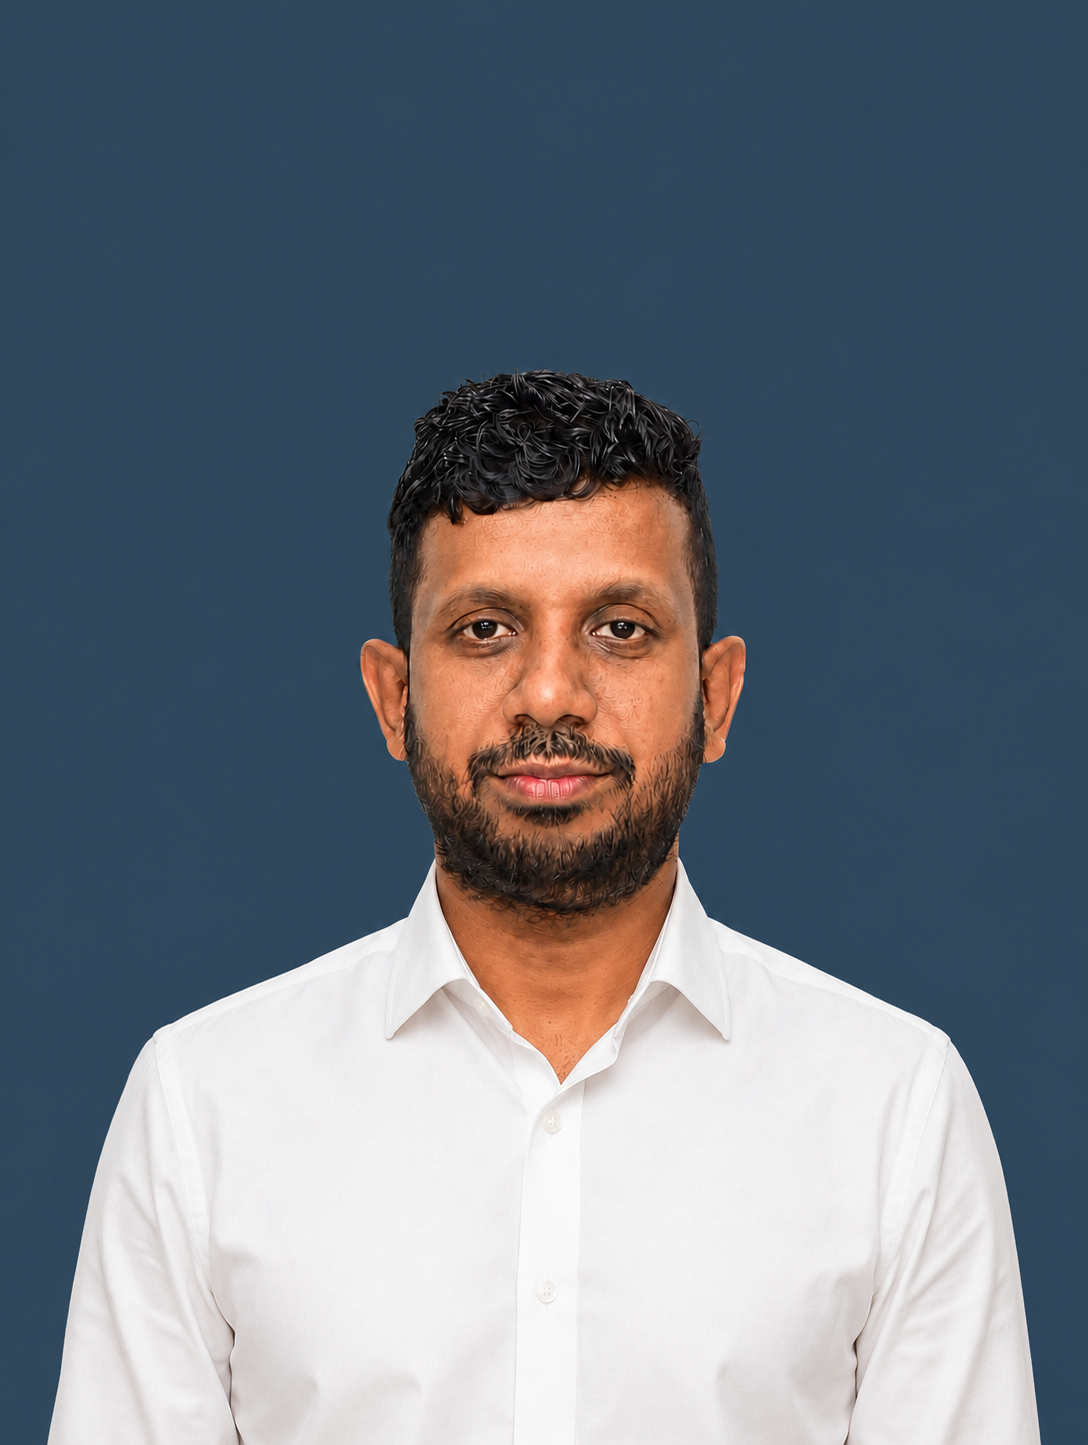
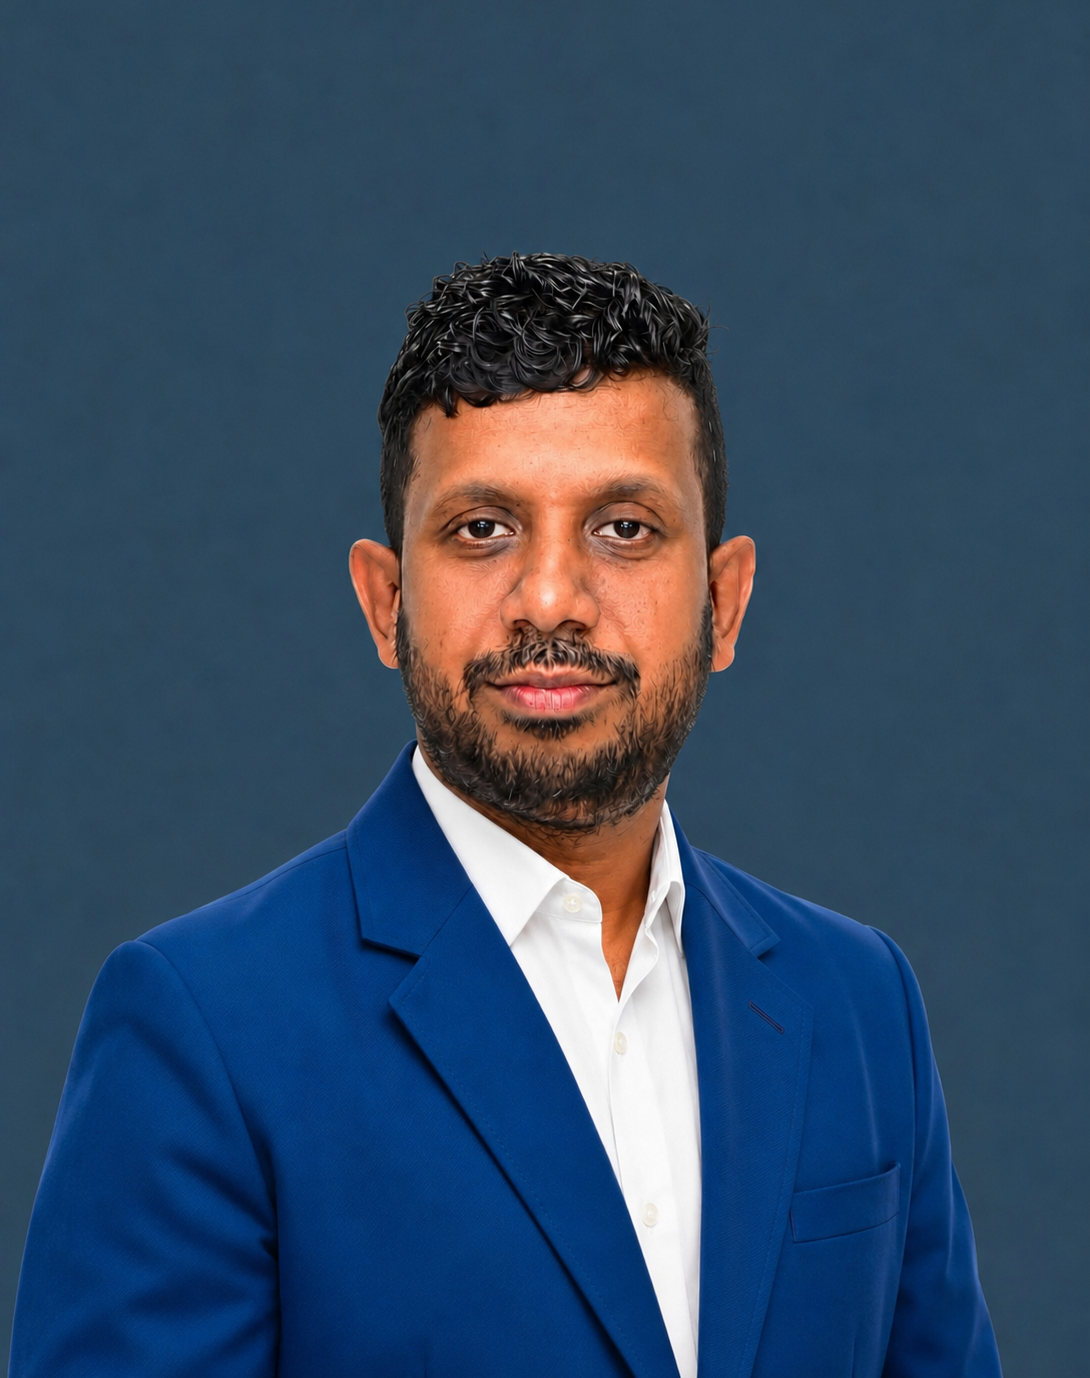
Enhance InsightsSection styles, update ProcessSection role

diff --git a/src/Dashboard/InsightsSection.jsx b/src/Dashboard/InsightsSection.jsx
@@ -110,9 +110,10 @@ const InsightsSection = () => {
 
             <style>{`
                 .fr-insights-section {
-
                     margin: 22px 0;
                     min-height: 280px;
+                    background: linear-gradient(135deg, #f8fafb 0%, #f3f6f9 100%);
+                    border-radius: 24px;
                 }
 
                 .fr-insights-shell {
@@ -123,15 +124,17 @@ const InsightsSection = () => {
 
                 .fr-insights-badge {
                     display: inline-block;
-                    background-color: #cddc39;
+                    background: linear-gradient(135deg, #cddc39 0%, #b8cc1f 100%);
                     color: #2b4a5f;
                     font-weight: 700;
                     letter-spacing: 0.15em;
                     text-transform: uppercase;
-                    padding: 0.38rem 1.35rem;
+                    padding: 0.5rem 1.5rem;
                     border-radius: 999px;
                     font-size: 0.82rem;
                     margin-bottom: 2.6rem;
+                    box-shadow: 0 4px 12px rgba(205, 220, 57, 0.25);
+                    transition: all 0.3s ease;
                 }
 
                 .fr-insights-empty-wrap {
@@ -152,73 +155,116 @@ const InsightsSection = () => {
                 .fr-insights-card {
                     height: 100%;
                     background: #fff;
-                    border: 1px solid #e6ebef;
-                    border-radius: 16px;
+                    border: 2px solid #e6ebef;
+                    border-radius: 18px;
                     overflow: hidden;
-                    box-shadow: 0 8px 24px rgba(16, 20, 23, 0.06);
+                    box-shadow: 0 8px 32px rgba(16, 20, 23, 0.08);
+                    transition: all 0.35s cubic-bezier(0.4, 0, 0.2, 1);
+                    position: relative;
+                }
+
+                .fr-insights-card::before {
+                    content: '';
+                    position: absolute;
+                    top: 0;
+                    left: 0;
+                    right: 0;
+                    height: 4px;
+                    background: linear-gradient(90deg, #cddc39 0%, #b8cc1f 100%);
+                    border-radius: 18px 18px 0 0;
+                }
+
+                .fr-insights-card:hover {
+                    transform: translateY(-8px);
+                    box-shadow: 0 16px 48px rgba(16, 20, 23, 0.16);
+                    border-color: #cddc39;
                 }
 
                 .fr-insights-image {
                     width: 100%;
                     height: 220px;
                     object-fit: cover;
-                    display: block;
+                    display: none;
                 }
 
                 .fr-insights-content {
-                    padding: 1rem 1rem 1.2rem;
+                    padding: 2rem 1.8rem 1.8rem;
                 }
 
                 .fr-insights-title {
-                    font-size: 1.1rem;
+                    font-size: 1.28rem;
                     margin: 0;
-                    color: #101417;
-                    line-height: 1.4;
+                    color: #0f3e5d;
+                    line-height: 1.5;
+                    font-weight: 700;
+                    letter-spacing: -0.3px;
                 }
 
+                
+
                 .fr-insights-subtopic {
-                    margin-top: 0.6rem;
+                    margin-top: 0.8rem;
                     color: #4f5c66;
                     font-size: 0.95rem;
-                    line-height: 1.45;
+                    line-height: 1.6;
                 }
 
                 .fr-insights-meta {
-                    margin-top: 0.65rem;
-                    color: #6f7b84;
+                    margin-top: 1.2rem;
+                    color: #8b99a3;
                     font-size: 0.85rem;
+                    font-weight: 500;
+                    display: flex;
+                    align-items: center;
+                    gap: 0.5rem;
+                }
+
+                .fr-insights-meta::before {
+                    content: '📅';
+                    font-size: 1rem;
                 }
 
                 .fr-insights-readmore {
-                    margin-top: 0.75rem;
+                    margin-top: 1.5rem;
                     display: inline-flex;
                     align-items: center;
-                    gap: 0.35rem;
-                    color: #2b4a5f;
+                    gap: 0.5rem;
+                    color: #0f3e5d;
                     text-decoration: none;
                     font-weight: 600;
+                    font-size: 0.95rem;
+                    padding: 0.6rem 0;
+                    border-bottom: 2px solid transparent;
+                    transition: all 0.3s ease;
                 }
 
+              
+
                 .fr-insights-action-wrap {
-                    margin-top: 2rem;
+                    margin-top: 2.5rem;
                     text-align: center;
                 }
 
                 .fr-insights-next-btn {
                     display: inline-flex;
                     align-items: center;
-                    gap: 0.4rem;
-                    background: #2b4a5f;
+                    gap: 0.5rem;
+                    background: linear-gradient(135deg, #0f3e5d 0%, #1a5073 100%);
                     color: #fff;
                     text-decoration: none;
-                    font-weight: 600;
+                    font-weight: 700;
                     border-radius: 999px;
-                    padding: 0.62rem 1.2rem;
+                    padding: 0.75rem 1.8rem;
+                    transition: all 0.35s cubic-bezier(0.4, 0, 0.2, 1);
+                    box-shadow: 0 4px 16px rgba(15, 62, 93, 0.3);
                 }
 
                 .fr-insights-next-btn:hover {
                     color: #fff;
-                    background: #21394a;
+                    background: linear-gradient(135deg, #21394a 0%, #0f3e5d 100%);
+                    transform: translateY(-2px);
+                    box-shadow: 0 8px 24px rgba(15, 62, 93, 0.4);
+                    gap: 0.8rem;
                 }
 
                 @media (max-width: 991px) {
@@ -251,6 +297,14 @@ const InsightsSection = () => {
 
                     .fr-insights-image {
                         height: 180px;
+                    }
+
+                    .fr-insights-content {
+                        padding: 1.5rem 1.4rem 1.2rem;
+                    }
+
+                    .fr-insights-title {
+                        font-size: 1.1rem;
                     }
                 }
             `}</style>

diff --git a/src/pages/team.jsx b/src/pages/team.jsx
@@ -68,10 +68,24 @@ const teamMembers = [
     {
     id: 3,
     name: 'Lahiru Perera',
-    role: 'Accountant',
+    role: 'Manager Audit and Assurance',
     photo: lahiru,
     bio: [
-      "no bio",
+      "With over sixteen years of experience spanning audit, financial management, corporate reporting, and operational finance leadership, Lahiru Perera brings to FinReach a deeply practical and execution-focused approach to financial management, shaped by years of working across complex industries, high-pressure reporting environments, and large-scale organisational structures.",
+
+      "A Chartered Accountant (ACA) of CA, Lahiru has built his career at the intersection of financial discipline, operational control, and business performance. His expertise extends across auditing, financial planning and analysis, internal controls, compliance, treasury oversight, budgeting, and group financial reporting, allowing him to support organisations not only from a compliance perspective, but from a broader strategic and operational lens.",
+
+      "At KPMGSri Lanka, Lahiru managed a diversified portfolio of more than 40 entities, including listed companies, banking and financial institutions, and businesses operating across manufacturing, healthcare, tourism, construction, trading, and investment management. Over the years, he led multidisciplinary audit teams, supervised large engagements, and worked closely with boards, management teams, and audit committees to strengthen governance, improve financial visibility, and support sound decision-making.",
+
+      "His experience also extends internationally through his tenure with KPMG Qatar, where he worked on audit engagements across sectors including manufacturing, construction, automotive, and investment management while operating within demanding reporting timelines and multicultural business environments.",
+
+      "Beyond audit and assurance, Lahiru has held senior corporate finance leadership roles at organisations including Viluxur Holidays and Courtaulds Clothing Group, where he was responsible for overseeing finance operations, consolidated reporting, budgeting, forecasting, treasury management, payroll oversight, tax compliance, and the implementation of internal control frameworks. He has also played a key role in strengthening financial systems and bridging operational control gaps across group entities, helping organisations move from fragmented financial processes towards more structured and reliable finance functions.",
+
+      "Known for his ability to balance technical precision with practical execution, Lahiru approaches finance as more than a reporting function. His focus lies in helping businesses build financial clarity, operational consistency, and stronger decision-making foundations while supporting sustainable growth.",
+
+      "Throughout his career, Lahiru has been recognised for performance excellence, receiving KPMG’s highest year-end performance rating across four consecutive performance cycles.",
+
+      "At FinReach, Lahiru works closely with businesses to strengthen financial operations, improve reporting quality, enhance internal controls, and create finance structures that support long-term business stability and growth. Combining audit discipline with hands-on commercial finance experience, he helps organisations navigate complexity with greater confidence, visibility, and control.",
 
     ],
     quote: null,

diff --git a/src/Dashboard/ProcessSection.jsx b/src/Dashboard/ProcessSection.jsx
@@ -18,7 +18,7 @@ const ProcessSection = () => {
     {
       image: accountantImage,
       name: 'Lahiru Perera',
-      role: 'Accountant',
+      role: 'Manager Audit and Assurance',
       location: 'Canberra, ACT',
     },
     {

diff --git a/src/pages/team.css b/src/pages/team.css
@@ -171,8 +171,7 @@
 .team-bio-modal-close {
   position: absolute;
   top: 0.8rem;
-  left: 50%;
-  transform: translateX(-50%);
+  right: 1rem;
   width: 36px;
   height: 36px;
   padding: 0;
